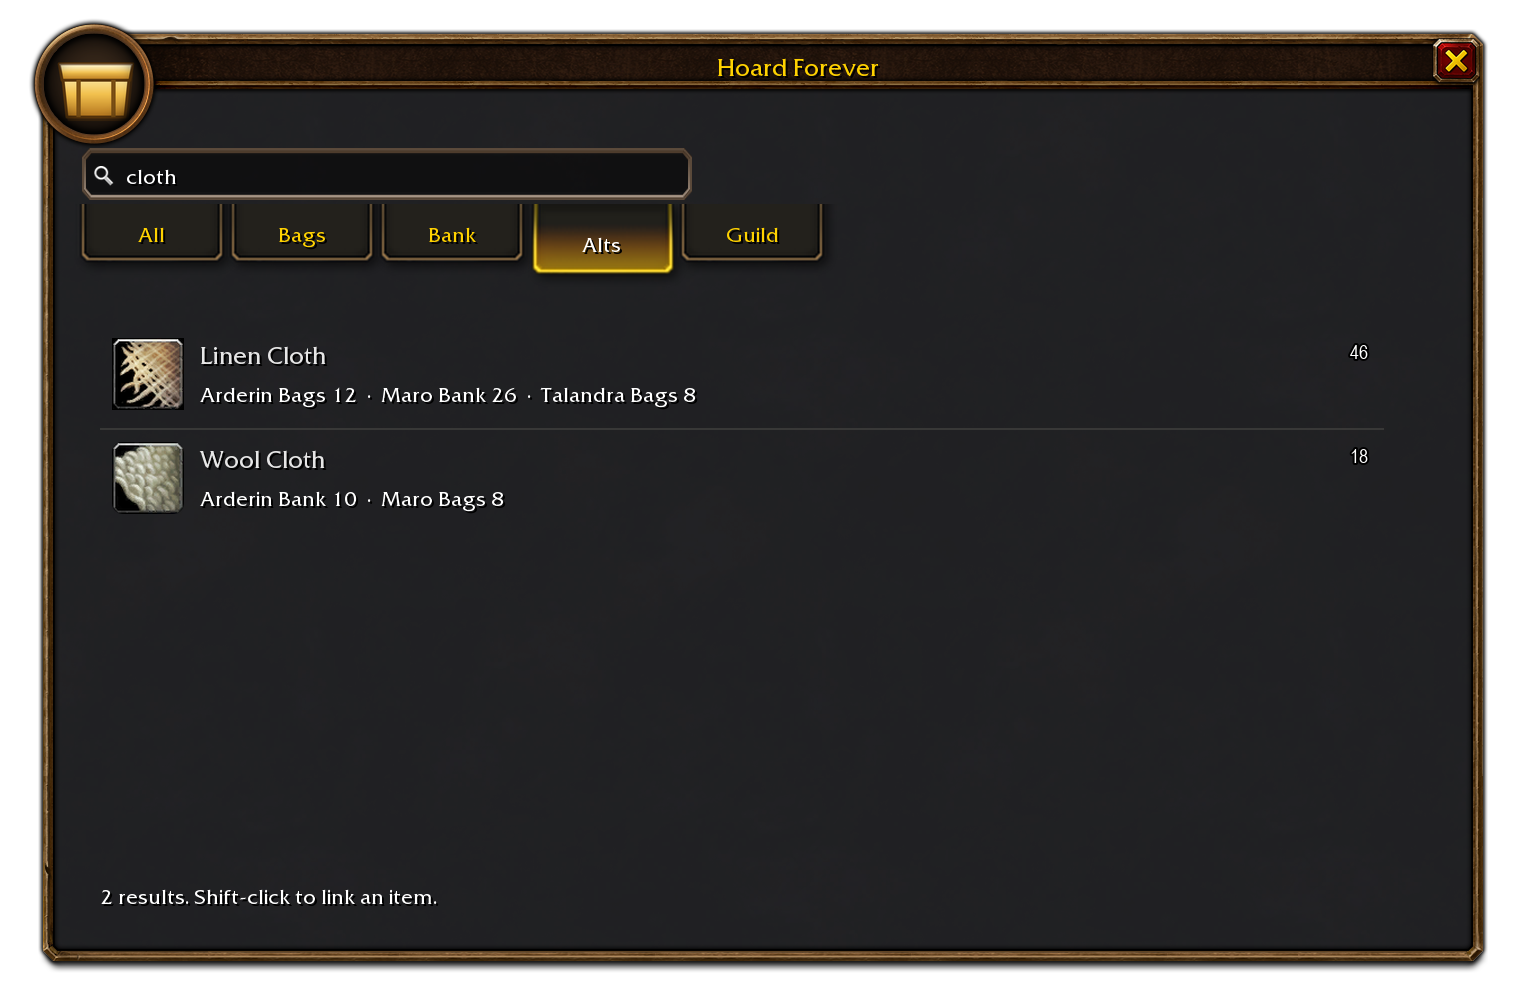
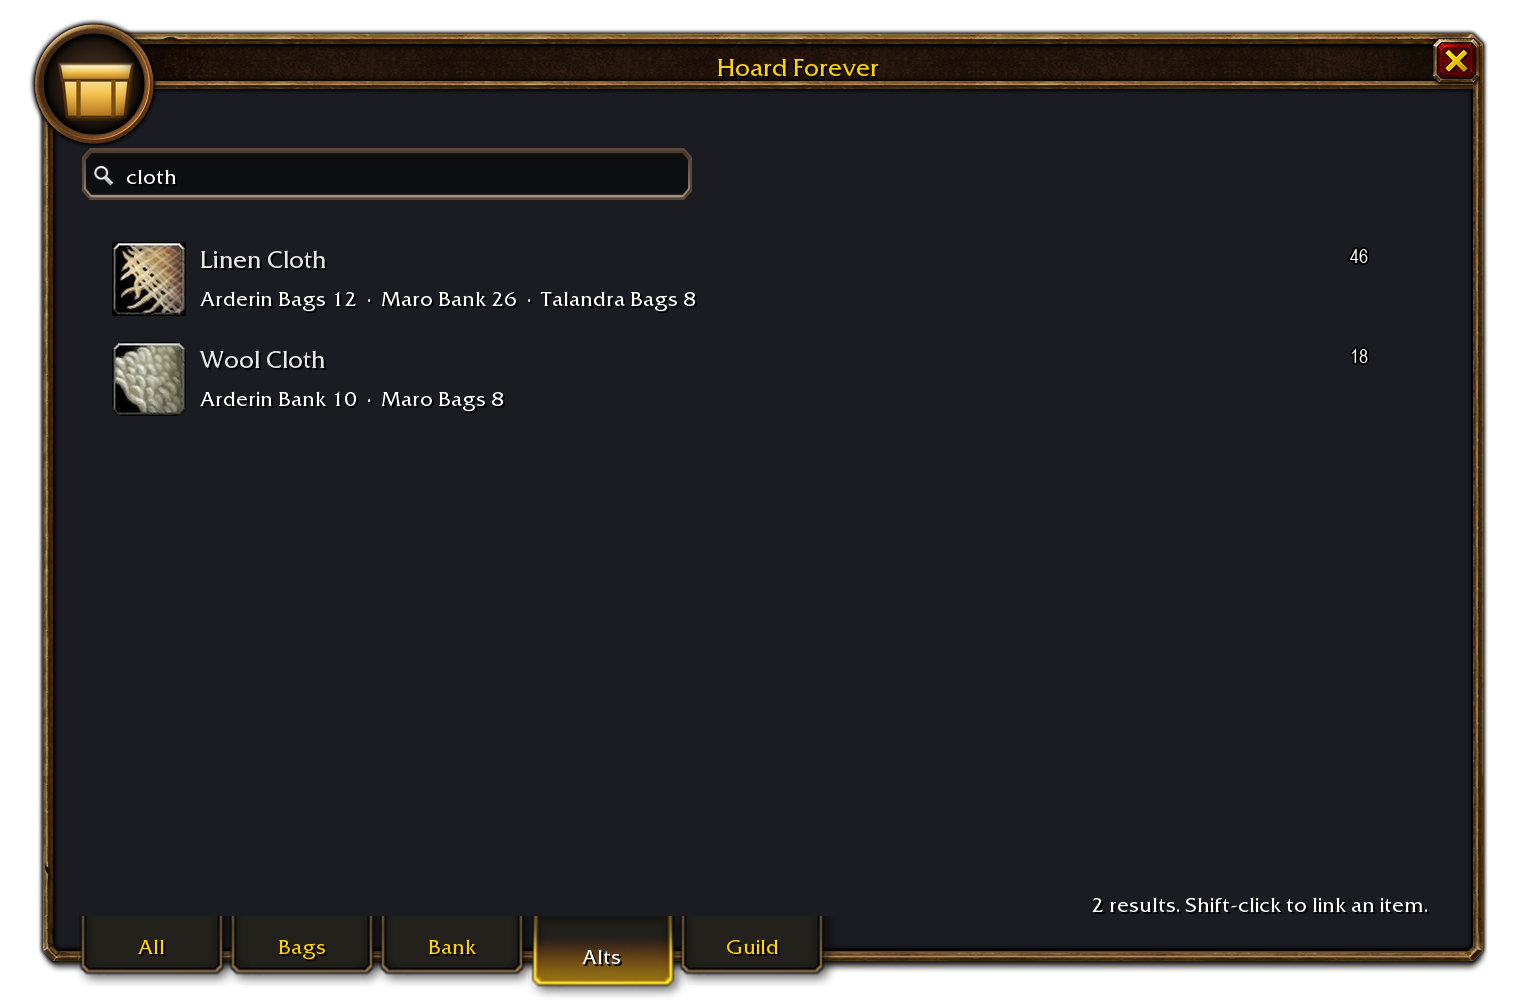
fix: preserve bank snapshots and align hoard UI
Keep cached bank records when a bag-only scan runs after the bank closes, and
track bag and bank ages independently so stale data remains honest. Refresh the
window with the native portrait, search box and bottom panel tabs, compact the
result rows, localise visible status and source labels, and update the mock to
the pinned Forever build with honest cloth examples.

diff --git a/tools/screenshots.py b/tools/screenshots.py
@@ -14,9 +14,9 @@ if not (WOWMOCK / "wowmock.py").is_file():
     raise SystemExit(f"wowmock.py not found in {WOWMOCK}; set FOREVER_CORE to the forever-core checkout")
 sys.path.insert(0, str(WOWMOCK))
 
-from wowmock import ARIALN, FONTS, WHITE, Font, Ui, panel_tabs, portrait_frame_art, search_box, tiled  # noqa: E402
+from wowmock import ARIALN, FONTS, WHITE, Font, Ui, panel_tabs, portrait_frame_art, search_box  # noqa: E402
 
-BUILD = "1.60.1.70532"
+BUILD = "1.60.1.70124"
 WIDTH, HEIGHT = 764, 500
 FRAME = (22, 20, 720, 460)
 ITEM_IDS = {"Linen Cloth": 2589, "Copper Ore": 2770, "Hearthstone": 6948, "Wool Cloth": 2592}
@@ -27,26 +27,23 @@ QUALITY = {1: (0.9, 0.9, 0.9, 1), 2: (0.12, 0.72, 0.16, 1), 3: (0.14, 0.57, 0.94
 def scene(ui, query, tab, rows, empty=False):
     canvas = ui.canvas(WIDTH, HEIGHT)
     x, y, w, h = FRAME
-    rock = ui.texture("interface/framegeneral/ui-background-rock.blp")
-    tiled(canvas, rock, x + 5, y + 23, w - 10, h - 28, rock.width / ui.scale, rock.height / ui.scale)
-    canvas.fill(x + 5, y + 23, w - 10, h - 28, (0.10, 0.11, 0.13, 0.74))
+    canvas.fill(x + 5, y + 23, w - 10, h - 28, (0.10, 0.11, 0.13, 1))
     portrait = Image.open(ROOT / "media/icon-400.png").convert("RGBA")
     portrait_frame_art(canvas, x, y, w, h, portrait, "Hoard Forever")
 
     search_box(canvas, x + 24, y + 54, 300, 26, "")
     canvas.text(x + 41, y + 57, query, FONTS["GameFontHighlightSmall"], box_height=20)
-    panel_tabs(canvas, x + 18, y + 82, ["All", "Bags", "Bank", "Alts", "Guild"], tab)
+    panel_tabs(canvas, x + 18, y + h - 22, ["All", "Bags", "Bank", "Alts", "Guild"], tab)
 
-    list_x, list_y, list_w = x + 28, y + 142, w - 78
+    list_x, list_y, list_w = x + 28, y + 94, w - 78
     if empty:
-        canvas.text(list_x + 8, list_y + 8, f"No items found for “{query}”.", FONTS["GameFontDisableSmall"])
+        empty = "No items found." if not query else f"No items found for “{query}”."
+        canvas.text(list_x + 8, list_y + 8, empty, FONTS["GameFontDisableSmall"])
     else:
         for index, (item_name, total, sources) in enumerate(rows):
             item = ui.item(ITEM_IDS[item_name])
-            row_y = list_y + index * 52
-            if index:
-                canvas.fill(list_x, row_y, list_w, 1, (0.32, 0.32, 0.30, 0.48))
-            canvas.draw(ui.texture(item.icon), list_x + 6, row_y + 7, 36, 36)
+            row_y = list_y + index * 50
+            canvas.draw(ui.texture(item.icon), list_x + 6, row_y + 7, 37, 37)
             color = QUALITY.get(item.quality, FONTS["GameFontHighlight"].color)
             canvas.text(list_x + 50, row_y + 8, item.name, FONTS["GameFontHighlight"], color)
             canvas.text(list_x + list_w - 42, row_y + 8, str(total), COUNT_FONT, justify="RIGHT", width=34)
@@ -55,7 +52,7 @@ def scene(ui, query, tab, rows, empty=False):
     status = (
         "0 results. Shift-click to link an item." if empty else f"{len(rows)} results. Shift-click to link an item."
     )
-    canvas.text(x + 28, y + h - 38, status, FONTS["GameFontHighlightSmall"])
+    canvas.text(x + w - 388, y + h - 34, status, FONTS["GameFontHighlightSmall"], justify="RIGHT", width=360)
     return canvas
 
 
@@ -71,7 +68,6 @@ def main():
             [
                 ("Linen Cloth", 38, "Bags 12  ·  Bank 26"),
                 ("Wool Cloth", 18, "Bags 6  ·  Bank 12"),
-                ("Copper Ore", 14, "Bags 8  ·  Bank 6"),
             ],
         ),
         "alts.png": scene(

diff --git a/AGENTS.md b/AGENTS.md
@@ -52,7 +52,8 @@ Never: craft, mail, sell or use an item, plan a route (`shortest-path-forever`),
 
 ## Standards
 
-- `wow-forever-addon` — https://github.com/cjber/forever-core/tree/3fd1b7fe109e709c4952bb04622e94d05636585e/.agents/skills/wow-forever-addon (shared UI, icon, docs, CI and release requirements)
+- `wow-forever-addon` — https://github.com/cjber/forever-core/tree/af94fd89610c9128bc11ec07354bd9abafb5dd0/.agents/skills/wow-forever-addon (shared UI, icon, docs, CI and release requirements)
+- `wow-retail-ui-style` — https://github.com/cjber/forever-core/tree/af94fd89610c9128bc11ec07354bd9abafb5dd0/.agents/skills/wow-retail-ui-style (native host integration, compact layout rhythm and approved asset blacklist)
 
 ## Rules
 
